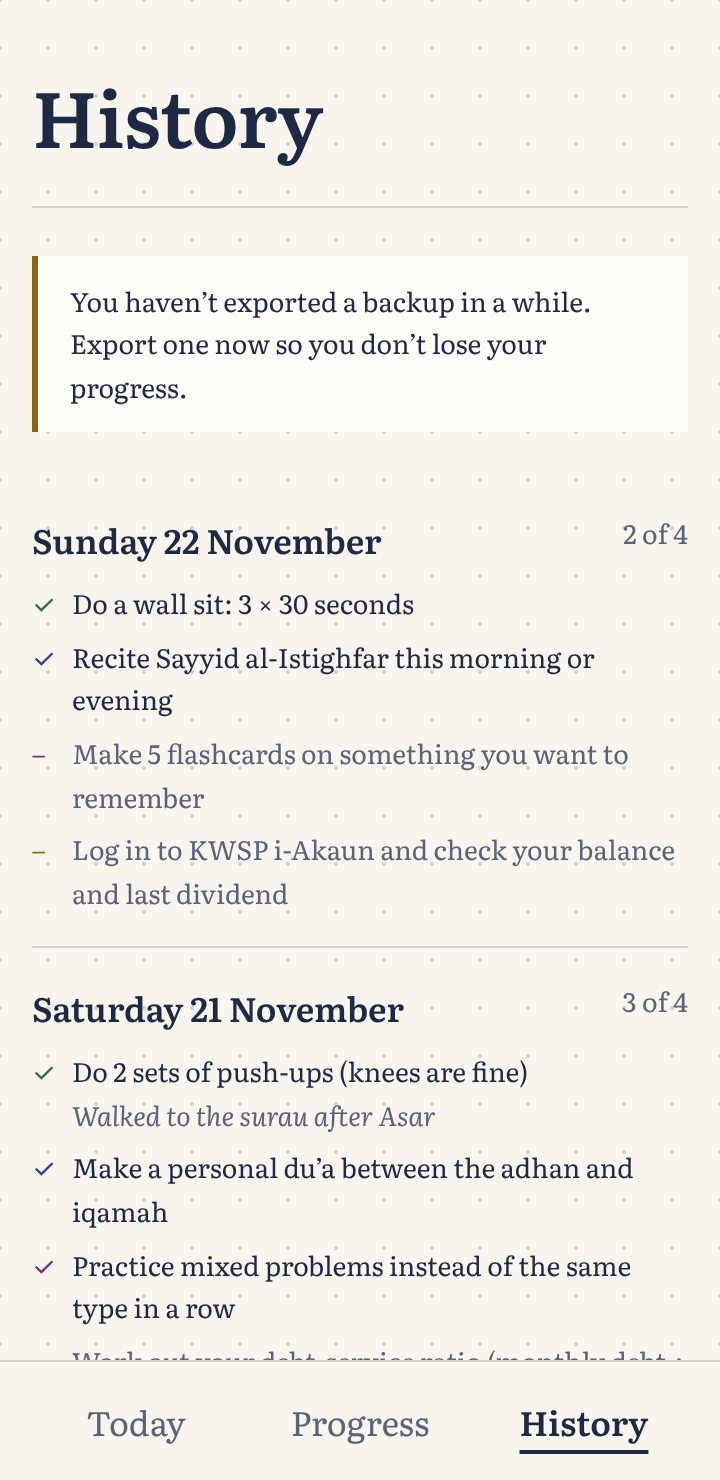
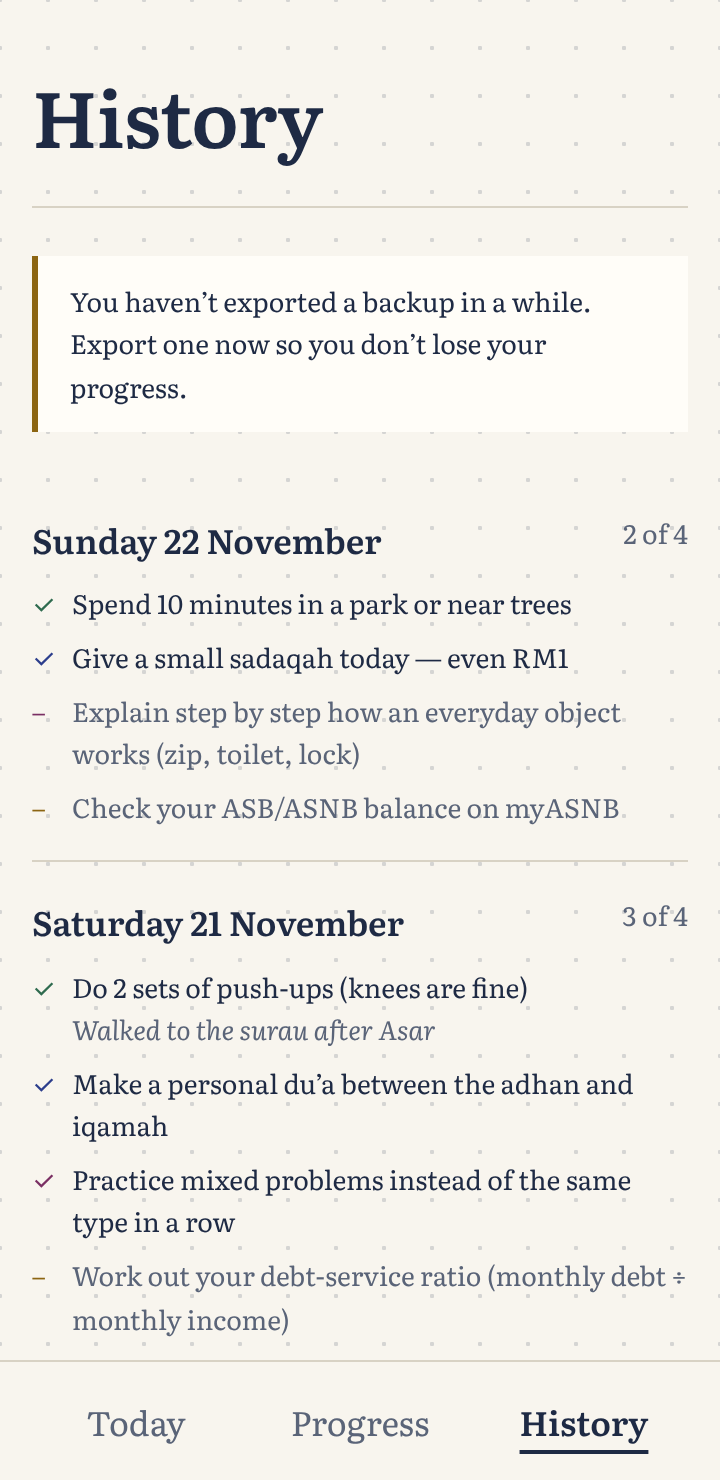
feat: daily fun fact above the tasks (v1.1.0)
60 sourced facts across physics, science, maths, philosophy and history,
one per day, cycling with no repeats.

Claude-Session: https://claude.ai/code/session_01M3U49rY1fXmD9x9rN4bqyC

Changed region(s): [[0.0306, 0.4041, 0.9472, 0.9014], [0.8556, 0.6527, 0.9472, 0.6838]]

diff --git a/src/facts.js b/src/facts.js
@@ -1,0 +1,81 @@
+/** Daily fun facts: one per day, no repeats until all have been shown. Not part of the score. */
+import { daysBetween } from './date.js';
+
+export const FACT_TOPICS = ['Physics', 'Science', 'Maths', 'Philosophy', 'History'];
+
+const f = (n, topic, text, label, url) => ({
+  id: `x${String(n).padStart(2, '0')}`, topic, text, source: url ? { label, url } : { label },
+});
+
+// Authored in a mixed topic order so consecutive days vary.
+export const FACTS = [
+  f(1, 'Physics', 'Sunlight takes about 8 minutes and 20 seconds to reach Earth. When you look at the Sun, you see it as it was 8 minutes ago.', 'NASA'),
+  f(2, 'Maths', 'There are infinitely many prime numbers. Euclid proved it around 300 BCE with an argument still taught today.', 'Euclid, Elements, Book IX, Proposition 20'),
+  f(3, 'Philosophy', 'Socrates never wrote anything down. Almost everything we know of his ideas comes from his student Plato.', 'Stanford Encyclopedia of Philosophy — Socrates', 'https://plato.stanford.edu/entries/socrates/'),
+  f(4, 'Science', 'Your body holds roughly as many bacterial cells as human cells — about 38 trillion bacteria to 30 trillion human cells.', 'Sender, Fuchs & Milo (2016), PLoS Biology, 14(8):e1002533'),
+  f(5, 'History', 'Ibn al-Haytham (c. 965–1040) showed that we see because light enters the eye, and tested his ideas with careful experiments.', 'UNESCO International Year of Light 2015 — Ibn al-Haytham'),
+  f(6, 'Maths', 'In a room of just 23 people, there is a better than 50% chance that two share a birthday.', 'The birthday problem — standard probability result'),
+  f(7, 'Physics', 'GPS satellites’ clocks run faster than clocks on the ground because of relativity. Without correcting about 38 microseconds a day, GPS would drift kilometres.', 'Ashby (2003), Living Reviews in Relativity, 6:1'),
+  f(8, 'Philosophy', 'If every plank of a ship is replaced one by one, is it still the same ship? This puzzle, the Ship of Theseus, is over 1,900 years old.', 'Plutarch, Life of Theseus'),
+  f(9, 'Science', 'Octopuses have three hearts and blue blood, which carries oxygen using copper instead of iron.', 'Smithsonian Ocean'),
+  f(10, 'Maths', 'The word “algorithm” comes from the name of al-Khwarizmi, and “algebra” from his 9th-century book al-Jabr.', 'Encyclopaedia Britannica — al-Khwarizmi'),
+  f(11, 'Physics', 'Sound travels about four times faster in water (≈1,480 m/s) than in air (≈343 m/s).', 'Standard physical constants'),
+  f(12, 'History', 'Eratosthenes estimated Earth’s circumference around 240 BCE using only shadows, a well and geometry — and got remarkably close.', 'Encyclopaedia Britannica — Eratosthenes'),
+  f(13, 'Science', 'Edible honey has been found in ancient Egyptian tombs. Its low water content and acidity keep microbes from growing.', 'Smithsonian Magazine (2013), “The Science Behind Honey’s Eternal Shelf Life”'),
+  f(14, 'Philosophy', 'Marcus Aurelius wrote his Meditations as private notes to himself. He never meant them to be published.', 'Stanford Encyclopedia of Philosophy — Marcus Aurelius', 'https://plato.stanford.edu/entries/marcus-aurelius/'),
+  f(15, 'Maths', 'A well-shuffled deck of 52 cards is almost certainly in an order no one has ever seen: there are about 8 × 10⁶⁷ possible orders.', '52! ≈ 8.07 × 10⁶⁷'),
+  f(16, 'Physics', 'The Eiffel Tower grows up to about 15 cm taller in summer, as the iron expands in the heat.', 'Société d’Exploitation de la Tour Eiffel', 'https://www.toureiffel.paris/en'),
+  f(17, 'Science', 'Tardigrades — animals under 1 mm long — have survived direct exposure to the vacuum of space.', 'Jönsson et al. (2008), Current Biology, 18(17):R729–R731'),
+  f(18, 'Philosophy', 'In the 11th century, Ibn Sina imagined a man floating in the air with no senses, and argued he would still know that he exists.', 'Stanford Encyclopedia of Philosophy — Ibn Sina’s Psychology', 'https://plato.stanford.edu/entries/ibn-sina-psychology/'),
+  f(19, 'Maths', 'Some infinities are bigger than others. Georg Cantor proved the real numbers cannot be listed one by one like the whole numbers.', 'Cantor (1891), diagonal argument'),
+  f(20, 'Science', 'Your brain is about 2% of your body weight but uses about 20% of its energy.', 'Raichle & Gusnard (2002), PNAS, 99(16):10237–10239'),
+  f(21, 'History', 'The first computer “bug” was a real moth, found stuck in the Harvard Mark II computer in 1947 and taped into the logbook.', 'Smithsonian National Museum of American History'),
+  f(22, 'Physics', 'A bolt of lightning can heat the air to about 30,000 °C — roughly five times hotter than the surface of the Sun.', 'US National Weather Service', 'https://www.weather.gov/safety/lightning-science-overview'),
+  f(23, 'Maths', 'Fold a 0.1 mm sheet of paper in half 42 times and it would be about 440,000 km thick — farther than the Moon.', '0.1 mm × 2⁴² ≈ 440,000 km; Moon ≈ 384,400 km'),
+  f(24, 'Philosophy', '“The unexamined life is not worth living,” Socrates told the court at his trial in 399 BCE.', 'Plato, Apology 38a'),
+  f(25, 'Science', 'Sharks are older than trees. Sharks appear in the fossil record about 450 million years ago; trees about 385 million years ago.', 'Natural History Museum, London'),
+  f(26, 'Physics', 'Atoms are almost entirely empty space. If a nucleus were a marble, the atom would be about the size of a football stadium.', 'CERN — The structure of matter'),
+  f(27, 'Maths', '0.999… repeating forever is exactly equal to 1, not just very close to it.', 'Standard result: 1/3 = 0.333…, so 3 × 1/3 = 0.999… = 1'),
+  f(28, 'Science', 'Water expands by about 9% when it freezes. That is why ice floats and why frozen pipes burst.', 'US Geological Survey', 'https://www.usgs.gov/special-topics/water-science-school'),
+  f(29, 'History', 'In 628 CE, the Indian mathematician Brahmagupta wrote rules for calculating with zero as a number in its own right.', 'Encyclopaedia Britannica — Brahmagupta'),
+  f(30, 'Philosophy', 'Occam’s razor — prefer the simplest explanation that fits — is named after William of Ockham, a 14th-century English friar.', 'Stanford Encyclopedia of Philosophy — William of Ockham', 'https://plato.stanford.edu/entries/ockham/'),
+  f(31, 'Physics', 'A day on Venus (243 Earth days) is longer than its year (225 Earth days).', 'NASA — Venus facts', 'https://science.nasa.gov/venus/'),
+  f(32, 'Science', 'The DNA in a single human cell, stretched out, would be about 2 metres long.', 'US National Human Genome Research Institute'),
+  f(33, 'Maths', 'In the Monty Hall game, switching doors wins 2 times out of 3. Many mathematicians refused to believe it at first.', 'Selvin (1975), The American Statistician, 29(1):67'),
+  f(34, 'Philosophy', 'The Stoic philosopher Epictetus was born a slave. He taught that we control only our own judgments and choices.', 'Stanford Encyclopedia of Philosophy — Epictetus', 'https://plato.stanford.edu/entries/epictetus/'),
+  f(35, 'Science', 'Rafflesia, which grows in Malaysia’s rainforests, has the largest single flower on Earth — Rafflesia arnoldii can reach about 1 metre across.', 'Royal Botanic Gardens, Kew'),
+  f(36, 'Physics', 'Saturn is less dense than water. In a bathtub big enough, it would float.', 'NASA — Saturn facts', 'https://science.nasa.gov/saturn/'),
+  f(37, 'History', 'Ibn Khaldun’s Muqaddimah (1377) studied how societies rise and fall, and is often called a forerunner of sociology and economics.', 'Encyclopaedia Britannica — Ibn Khaldun'),
+  f(38, 'Maths', 'Sunflower seed heads usually spiral in Fibonacci numbers, such as 34 one way and 55 the other.', 'Swinton et al. (2016), Royal Society Open Science, 3:160091'),
+  f(39, 'Philosophy', 'Descartes’ “I think, therefore I am” first appeared in French — “Je pense, donc je suis” — in 1637, not in Latin.', 'Descartes, Discourse on the Method (1637), Part IV'),
+  f(40, 'Science', 'While you sleep, your brain clears out waste products much faster than when you are awake.', 'Xie et al. (2013), Science, 342(6156):373–377'),
+  f(41, 'Physics', 'Bananas are very slightly radioactive, because they contain potassium-40. You would need to eat millions at once for it to matter.', 'Health Physics Society'),
+  f(42, 'Maths', 'Euler’s identity, e^(iπ) + 1 = 0, links five of the most important numbers in mathematics in one short equation.', 'Euler (1748), Introductio in analysin infinitorum'),
+  f(43, 'History', 'Alexander Fleming discovered penicillin in 1928 after noticing that mould on a forgotten dish had killed the bacteria around it.', 'Encyclopaedia Britannica — Alexander Fleming'),
+  f(44, 'Philosophy', 'Zeno argued that a runner can never finish a race, since he must first cover half the distance, then half the rest, forever. Infinite sums resolve it.', 'Stanford Encyclopedia of Philosophy — Zeno’s Paradoxes', 'https://plato.stanford.edu/entries/paradox-zeno/'),
+  f(45, 'Science', 'Trees in a forest can pass carbon to each other through underground fungal networks.', 'Simard et al. (1997), Nature, 388:579–582'),
+  f(46, 'Physics', 'The coldest possible temperature is absolute zero: −273.15 °C. Nothing can be cooled below it.', 'NIST'),
+  f(47, 'Maths', 'In many real-world lists of numbers, about 30% start with the digit 1 — not 11% as you might guess. This is Benford’s law.', 'Benford (1938), Proceedings of the American Philosophical Society, 78(4):551–572'),
+  f(48, 'Philosophy', 'Al-Ghazali argued in the 11th century that we never actually observe causes, only one event following another — an idea often compared to Hume’s.', 'Stanford Encyclopedia of Philosophy — al-Ghazali', 'https://plato.stanford.edu/entries/al-ghazali/'),
+  f(49, 'Science', 'The human eye can sometimes detect a single photon of light.', 'Tinsley et al. (2016), Nature Communications, 7:12172'),
+  f(50, 'History', 'In 9th-century Baghdad, the Banu Musa brothers described an automatic flute player — often called the first programmable machine.', 'Koetsier (2001), Mechanism and Machine Theory, 36(5):589–603'),
+  f(51, 'Physics', 'Astronauts grow up to about 3% taller in space, because their spines are no longer squeezed by gravity.', 'NASA'),
+  f(52, 'Maths', 'Getting 1% better every day for a year makes you about 37.8 times better (1.01³⁶⁵). Getting 1% worse leaves you at 0.03.', '1.01³⁶⁵ ≈ 37.78; 0.99³⁶⁵ ≈ 0.026'),
+  f(53, 'Philosophy', 'The trolley problem — would you divert a runaway trolley to kill one instead of five? — was introduced by Philippa Foot in 1967.', 'Foot (1967), Oxford Review, 5:5–15'),
+  f(54, 'Science', 'Humans and chimpanzees share about 98.8% of their DNA.', 'Smithsonian National Museum of Natural History'),
+  f(55, 'Maths', 'Pi has been calculated to more than 100 trillion digits — but about 40 digits are enough to measure the observable universe to the width of an atom.', 'Google Cloud (2022); NASA JPL'),
+  f(56, 'Philosophy', 'The word “philosophy” comes from Greek and means “love of wisdom”.', 'Oxford English Dictionary'),
+  f(57, 'History', 'The idea of kaizen — continuous small improvement — became famous through Toyota’s factories after World War II.', 'Imai (1986), Kaizen: The Key to Japan’s Competitive Success'),
+  f(58, 'Maths', 'Kepler guessed in 1611 that stacking oranges in a pyramid is the densest way to pack spheres. It took until 2017 to formally prove it.', 'Hales et al. (2017), Forum of Mathematics, Pi, 5:e2'),
+  f(59, 'Physics', 'Hot water can sometimes freeze faster than cold water. It is called the Mpemba effect, and physicists still debate why.', 'Mpemba & Osborne (1969), Physics Education, 4(3):172'),
+  f(60, 'Science', 'A teaspoon of material from a neutron star would weigh about a billion tonnes on Earth.', 'NASA — Neutron stars'),
+];
+
+const REFERENCE_DAY = '2026-01-01';
+
+/** The fact for a calendar day. Cycles through every fact before repeating. @param {string} key */
+export function factForDay(key) {
+  const n = FACTS.length;
+  const i = ((daysBetween(REFERENCE_DAY, key) % n) + n) % n;
+  return FACTS[i];
+}

diff --git a/tests/facts.test.js b/tests/facts.test.js
@@ -1,0 +1,33 @@
+import { test } from 'node:test';
+import assert from 'node:assert/strict';
+import { FACTS, FACT_TOPICS, factForDay } from '../src/facts.js';
+import { addDays } from '../src/date.js';
+
+test('at least 50 facts with unique ids', () => {
+  assert.ok(FACTS.length >= 50, String(FACTS.length));
+  assert.equal(new Set(FACTS.map((f) => f.id)).size, FACTS.length);
+});
+
+test('every fact is short, sourced and in a known topic', () => {
+  for (const f of FACTS) {
+    assert.match(f.id, /^x\d{2}$/, f.id);
+    assert.ok(FACT_TOPICS.includes(f.topic), `${f.id} topic ${f.topic}`);
+    assert.ok(f.text.trim().length > 0 && f.text.length <= 220, `${f.id} length ${f.text.length}`);
+    assert.ok(f.source.label.trim().length > 0, `${f.id} source`);
+    if (f.source.url) assert.ok(f.source.url.startsWith('https://'), f.id);
+  }
+});
+
+test('factForDay is stable for a given day', () => {
+  assert.equal(factForDay('2026-11-22'), factForDay('2026-11-22'));
+});
+
+test('no fact repeats until every fact has been shown', () => {
+  const seen = new Set();
+  for (let i = 0; i < FACTS.length; i++) seen.add(factForDay(addDays('2026-11-22', i)).id);
+  assert.equal(seen.size, FACTS.length);
+});
+
+test('works for dates before the reference day', () => {
+  assert.ok(FACTS.includes(factForDay('2020-01-01')));
+});

diff --git a/src/ui/today.js b/src/ui/today.js
@@ -4,6 +4,7 @@ import { categoryIcon } from './icons.js';
 import { CATEGORIES, CATEGORY_LABELS, getTask } from '../library/index.js';
 import { NOTE_MAX } from '../day.js';
 import { daysBetween } from '../date.js';
+import { factForDay } from '../facts.js';
 
 const RETIRED = { title: 'Retired task', minutes: 0, why: 'This task is no longer in the library.', source: { label: 'Kaizen' } };
 
@@ -67,10 +68,21 @@ function entry(cat, slot, ctx) {
         }))));
 }
 
+function factCard(todayKey) {
+  const fact = factForDay(todayKey);
+  const source = sourceLine(fact.source);
+  source.className = 'fact-source';
+  return el('aside', { class: 'fact', attrs: { 'aria-label': 'Fact of the day' } },
+    el('p', { class: 'fact-topic', text: `${fact.topic} fact` }),
+    el('p', { class: 'fact-text', text: fact.text }),
+    source);
+}
+
 /** @param {HTMLElement} root @param {{state: any, todayKey: string, now: Date, actions: any, ui: {openWhy: Set<string>}}} ctx */
 export function renderToday(root, ctx) {
   const day = ctx.state.days[ctx.todayKey];
   root.replaceChildren(
     heading(ctx.todayKey, ctx.state, ctx.now),
+    factCard(ctx.todayKey),
     el('ul', { class: 'entries' }, ...CATEGORIES.map((c) => entry(c, day[c], ctx))));
 }

diff --git a/styles.css b/styles.css
@@ -107,6 +107,19 @@ button { font: inherit; color: inherit; }
 .day-no { font-size: var(--step--1); color: var(--ink-soft); font-variant-numeric: lining-nums; }
 .lede { grid-column: 1 / -1; margin-top: 0.75rem; color: var(--ink-soft); }
 
+/* ---------- fact of the day ---------- */
+
+.fact {
+  margin: 0 0 calc(var(--grid) * 1.25);
+  padding: 0.9rem 1rem 1rem;
+  background: var(--paper-raised);
+  border: 1px dashed var(--rule);
+  border-radius: 6px;
+}
+.fact-topic { font-size: var(--step--1); font-style: italic; color: var(--ink-soft); }
+.fact-text { margin-top: 0.3rem; line-height: 1.55; text-wrap: pretty; }
+.fact-source { margin-top: 0.5rem; font-size: var(--step--1); color: var(--ink-soft); }
+
 /* ---------- task entries ---------- */
 
 .entries { list-style: none; margin: 0; padding: 0; display: grid; gap: var(--grid); }

diff --git a/sw.js b/sw.js
@@ -4,7 +4,7 @@
  * then fetch a fresh copy in the background so the next launch gets updates.
  * CACHE must match src/version.js (enforced by tests/version.test.js).
  */
-const CACHE = 'kaizen-1.0.0';
+const CACHE = 'kaizen-1.1.0';
 const FILES = [
   './',
   'index.html',
@@ -21,6 +21,7 @@ const FILES = [
   'src/score.js',
   'src/store.js',
   'src/backup.js',
+  'src/facts.js',
   'src/library/index.js',
   'src/library/health.js',
   'src/library/ibadah.js',

diff --git a/src/version.js b/src/version.js
@@ -1,2 +1,2 @@
 /** Single source of truth for the app version. Bump with package.json and the CACHE name in sw.js (enforced by tests). */
-export const VERSION = '1.0.0';
+export const VERSION = '1.1.0';
